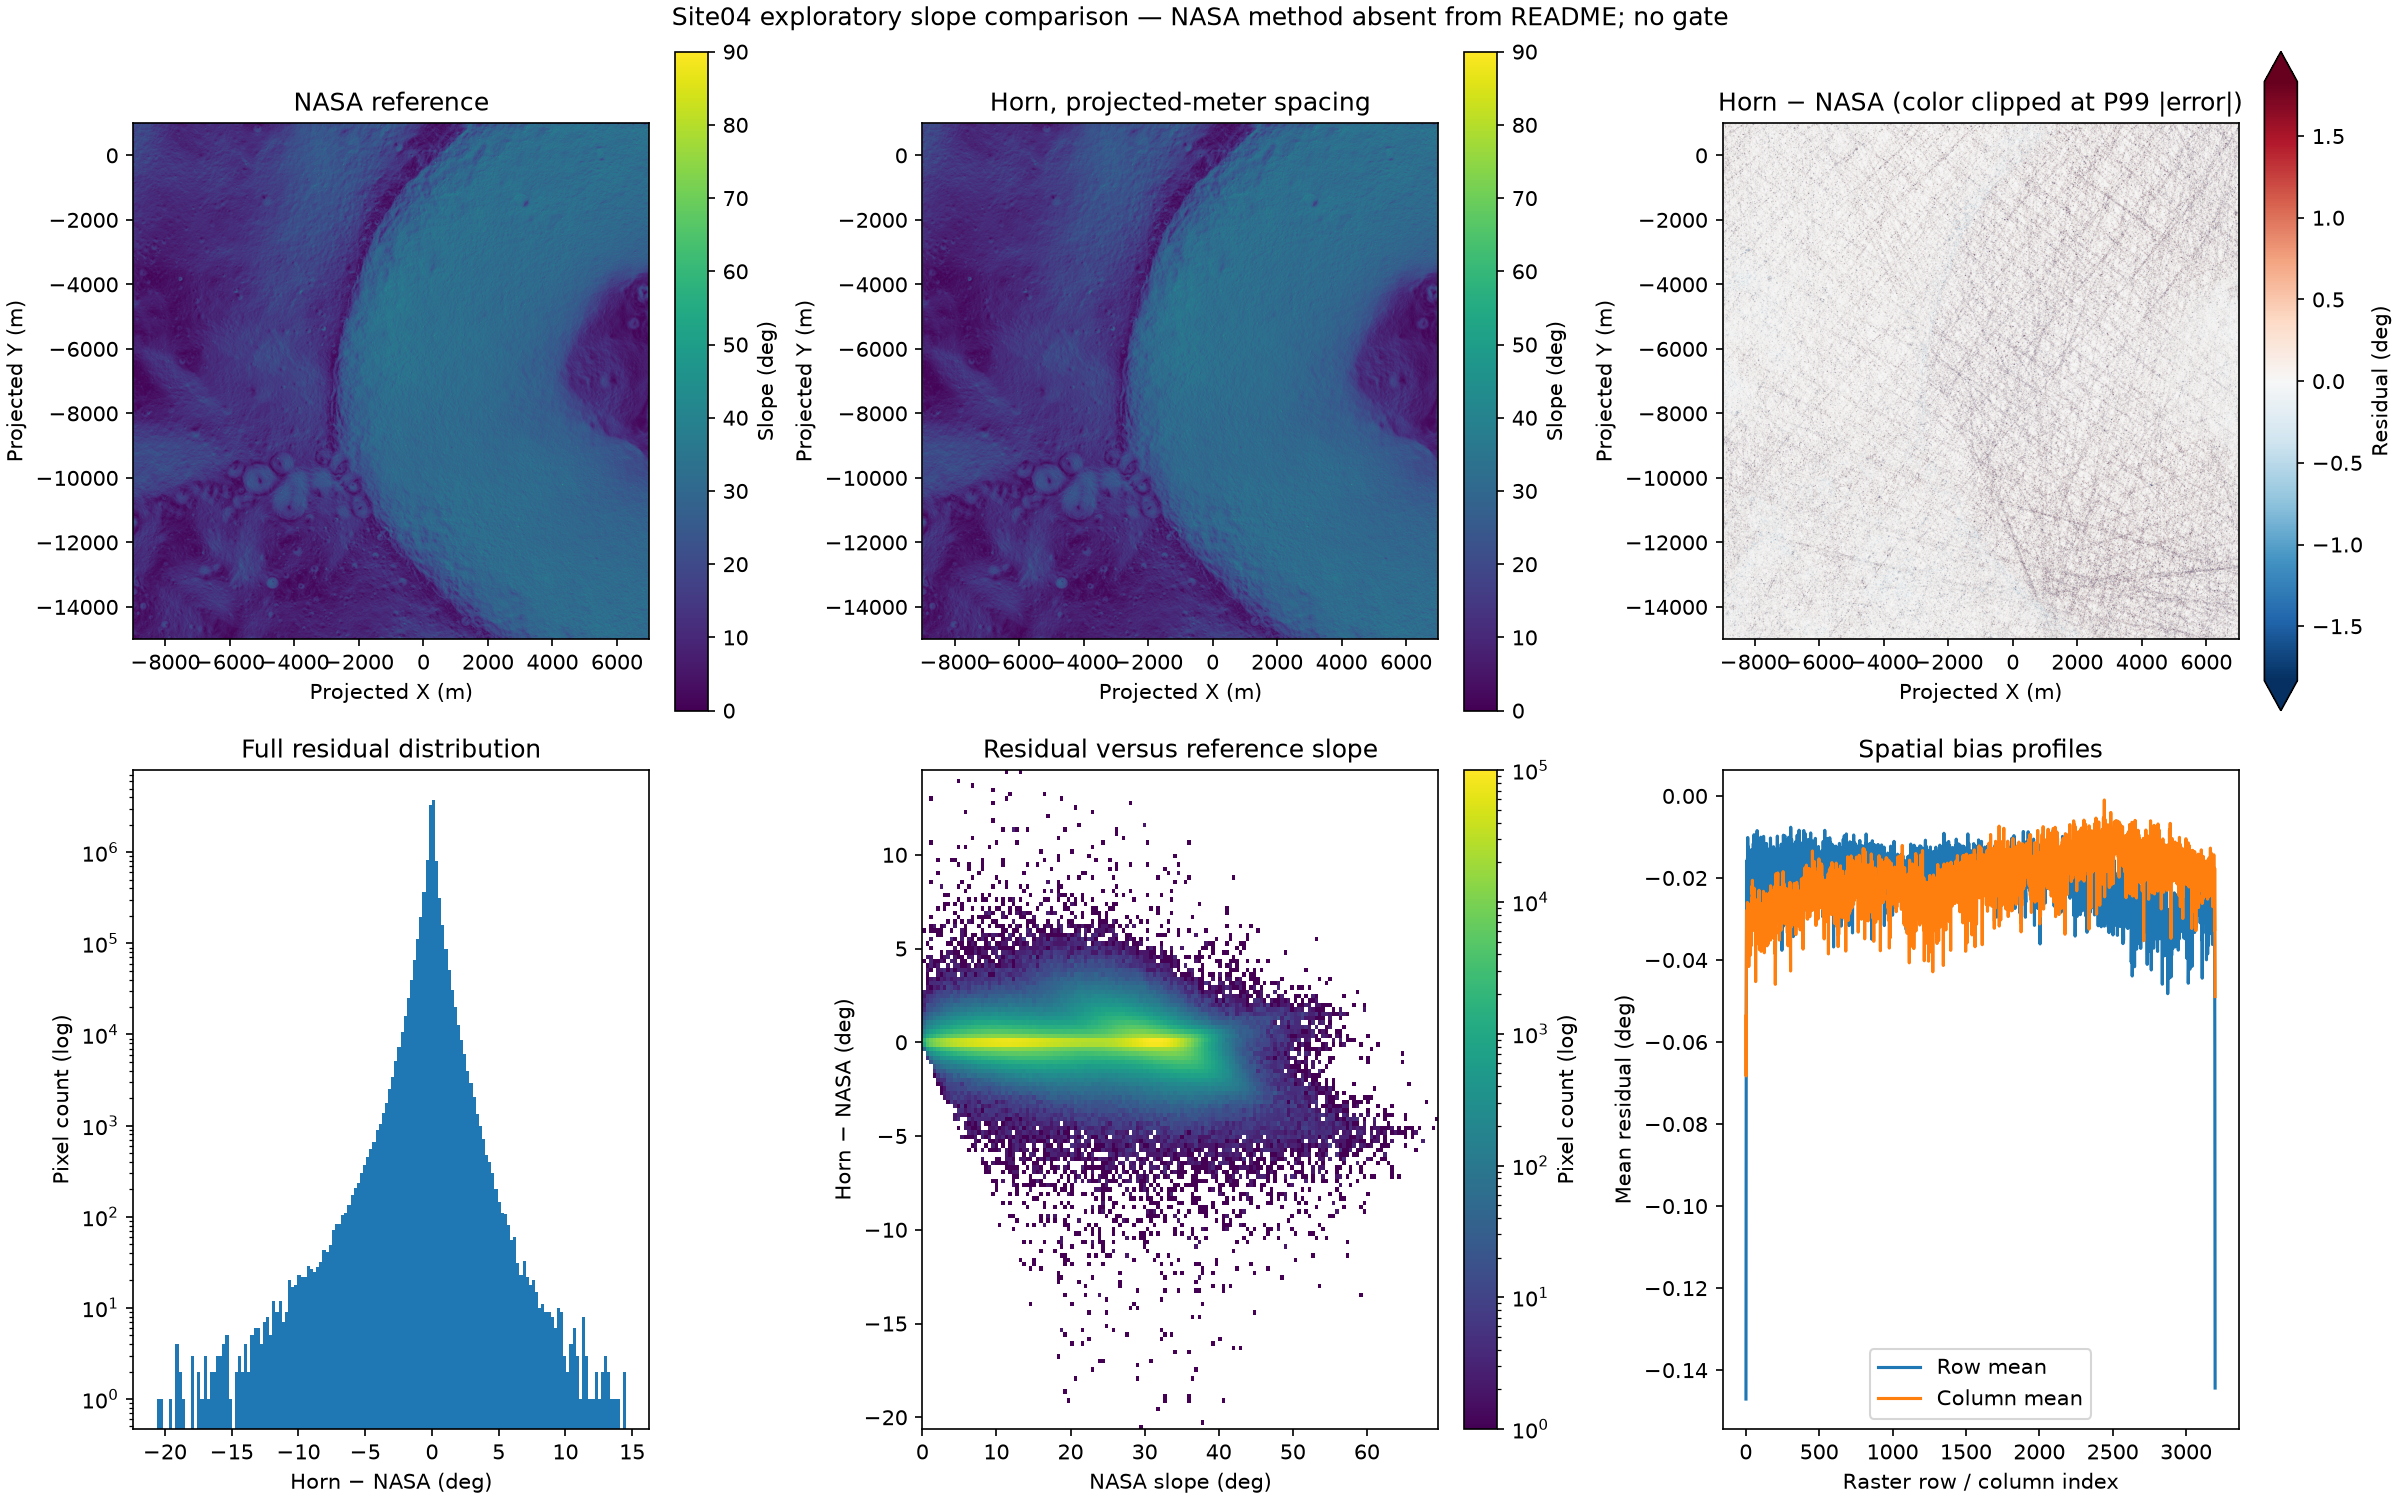
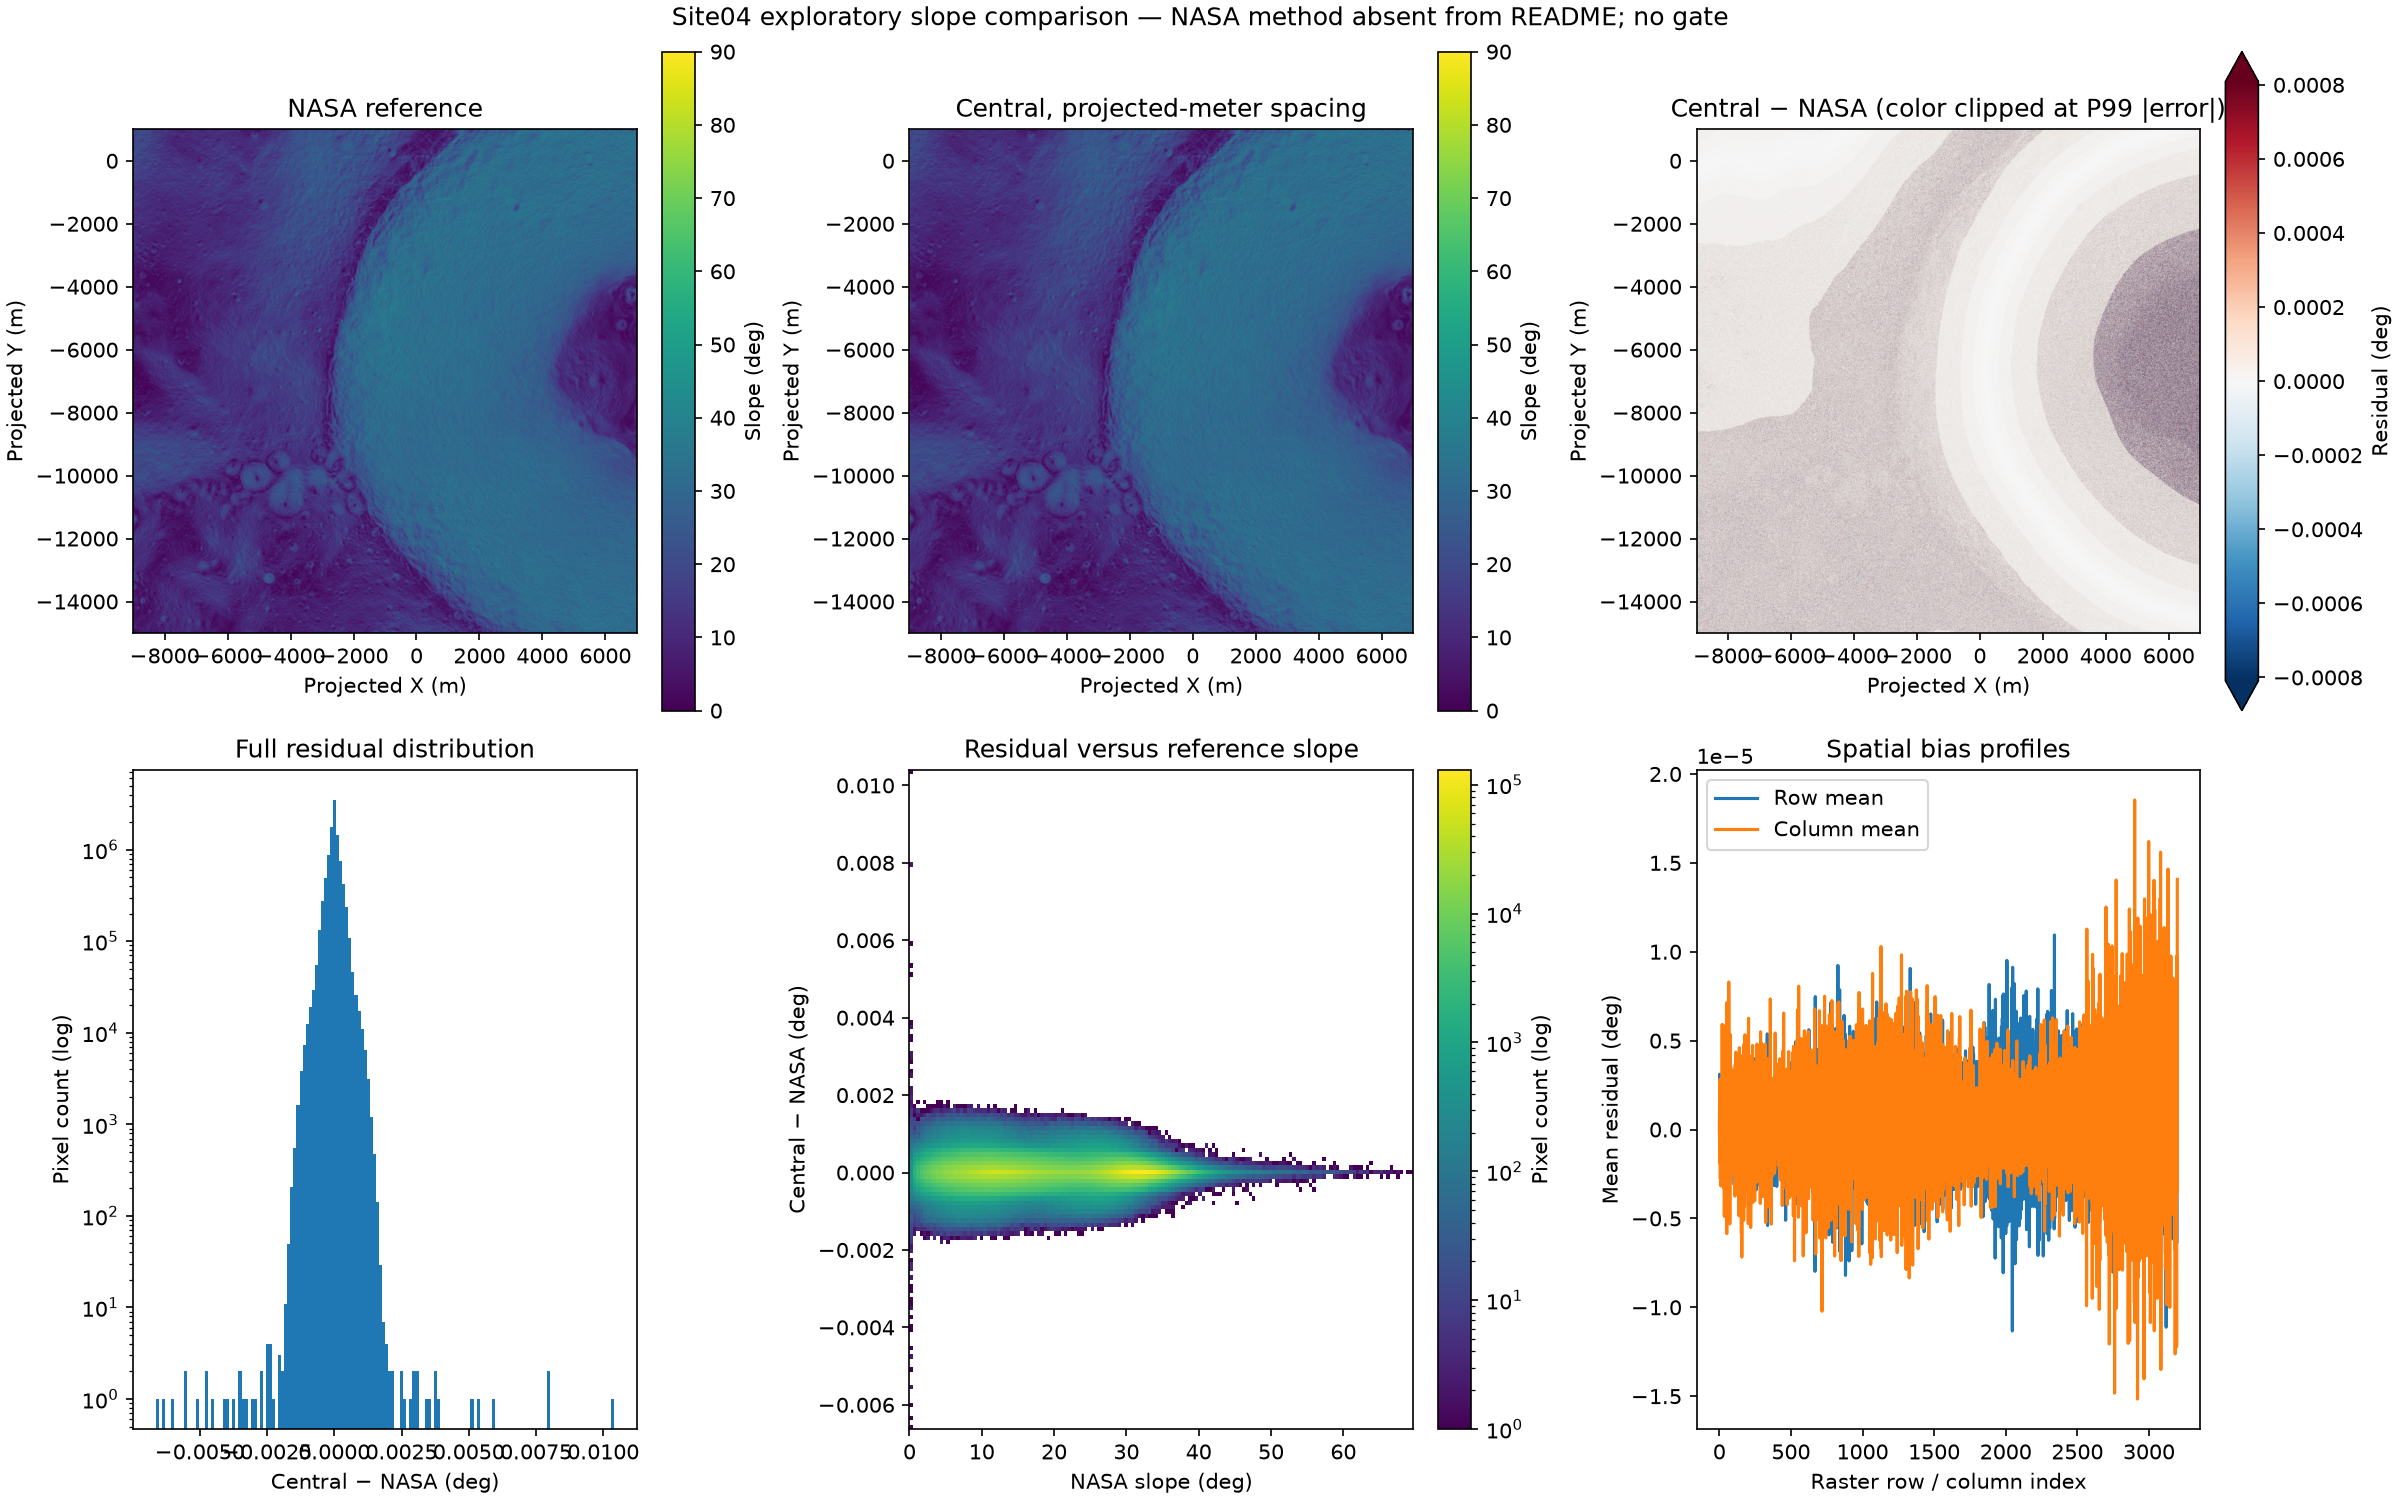
terrain: use central differences to match NASA's published slopes

diff --git a/scripts/validate_site04_slope.py b/scripts/validate_site04_slope.py
@@ -1,4 +1,4 @@
-"""Characterize Horn minus NASA Site04 slope; no numerical pass/fail gate.
+"""Characterize Central minus NASA Site04 slope; no numerical pass/fail gate.
 
 From the repository root: uv run python -m scripts.validate_site04_slope
 Print full-resolution statistics and write a diagnostic PNG, without resampling
@@ -58,10 +58,18 @@ def validate_site04(data_dir: Path, output_png: Path) -> None:
         raise ValueError("No comparable pixels")
     if np.any((reference_deg[valid_reference] < 0) | (reference_deg[valid_reference] > 90)):
         raise ValueError("Reference contains slope outside 0–90 degrees")
+    print("Estimator comparison on the same valid pixels (RMSE in degrees):")
+    for method in ("central", "horn", "forward"):
+        estimate_deg = compute_slope_deg(elevation_m, transform_m, method=method)
+        if not np.array_equal(np.isfinite(estimate_deg), valid_computed):
+            raise ValueError("Estimator validity masks differ")
+        comparison_deg = estimate_deg[valid] - reference_deg[valid]
+        print(f"  {method}: {np.sqrt(np.mean(comparison_deg**2)):.12f} deg")
+    del estimate_deg, comparison_deg
     residual_deg = np.where(valid, computed_deg - reference_deg, np.nan)
     differences_deg = residual_deg[valid]
     absolute_deg = np.abs(differences_deg)
-    print("Exploratory characterization: Horn minus NASA (degrees); NO PASS/FAIL GATE")
+    print("Exploratory characterization: Central minus NASA (degrees); NO PASS/FAIL GATE")
     print(f"Grid: {elevation_m.shape}; transform (meters): {tuple(transform_m)}")
     print(f"CRS: {crs.to_wkt()}")
     print(f"Total pixels: {valid.size:,}; compared: {valid.sum():,}")
@@ -118,7 +126,7 @@ def validate_site04(data_dir: Path, output_png: Path) -> None:
     # always use every eligible source pixel; common limits make maps comparable.
     for axis, values_deg, title in (
         (axes[0, 0], reference_deg, "NASA reference"),
-        (axes[0, 1], computed_deg, "Horn, projected-meter spacing"),
+        (axes[0, 1], computed_deg, "Central, projected-meter spacing"),
     ):
         artist = axis.imshow(values_deg, extent=extent_m, origin="upper", vmin=0, vmax=90)
         axis.set_title(title)
@@ -132,14 +140,16 @@ def validate_site04(data_dir: Path, output_png: Path) -> None:
         vmin=-display_limit_deg,
         vmax=display_limit_deg,
     )
-    axes[0, 2].set_title("Horn − NASA (color clipped at P99 |error|)")
+    axes[0, 2].set_title("Central − NASA (color clipped at P99 |error|)")
     figure.colorbar(artist, ax=axes[0, 2], label="Residual (deg)", extend="both")
     for axis in axes[0]:
         axis.set_xlabel("Projected X (m)")
         axis.set_ylabel("Projected Y (m)")
     axes[1, 0].hist(differences_deg, bins=150, log=True)
     axes[1, 0].set(
-        xlabel="Horn − NASA (deg)", ylabel="Pixel count (log)", title="Full residual distribution"
+        xlabel="Central − NASA (deg)",
+        ylabel="Pixel count (log)",
+        title="Full residual distribution",
     )
     histogram = axes[1, 1].hist2d(
         reference_deg[valid], differences_deg, bins=150, norm=matplotlib.colors.LogNorm()
@@ -147,7 +157,7 @@ def validate_site04(data_dir: Path, output_png: Path) -> None:
     figure.colorbar(histogram[3], ax=axes[1, 1], label="Pixel count (log)")
     axes[1, 1].set(
         xlabel="NASA slope (deg)",
-        ylabel="Horn − NASA (deg)",
+        ylabel="Central − NASA (deg)",
         title="Residual versus reference slope",
     )
     # Masked averages avoid interpreting missing rows/columns as zero bias.

diff --git a/core/terrain.py b/core/terrain.py
@@ -5,6 +5,7 @@ https://pgda.gsfc.nasa.gov/data/LOLA_5mpp/README
 """
 
 from pathlib import Path
+from typing import Literal
 
 import numpy as np
 import numpy.typing as npt
@@ -39,8 +40,17 @@ def load_dem_m(path: Path) -> tuple[npt.NDArray[np.float64], Affine, CRS]:
         return elevation_m, dataset.transform, dataset.crs
 
 
-def compute_slope_deg(elevation_m: npt.ArrayLike, transform_m: Affine) -> npt.NDArray[np.float64]:
-    """Return Horn slope in degrees using native projected-meter spacing.
+def compute_slope_deg(
+    elevation_m: npt.ArrayLike,
+    transform_m: Affine,
+    *,
+    method: Literal["central", "horn", "forward"] = "central",
+) -> npt.NDArray[np.float64]:
+    """Return slope in degrees using native projected-meter spacing.
+
+    Default: Zevenbergen–Thorne unweighted central differences, selected by
+    empirical Site04 agreement (see DECISIONS.md). Optional horn and forward
+    methods retain the comparison estimators. All use the same validity mask.
 
     Horn (1981), Hill Shading and the Reflectance Map, Proc. IEEE 69, 14–47,
     doi:10.1109/PROC.1981.11918. This is an exploratory estimator, not a verified
@@ -48,6 +58,8 @@ def compute_slope_deg(elevation_m: npt.ArrayLike, transform_m: Affine) -> npt.ND
     Requires an axis-aligned raster at least 3x3; borders and any neighborhood
     containing invalid elevation are NaN. No padding or gap filling is applied.
     """
+    if method not in ("central", "horn", "forward"):
+        raise ValueError(f"Unknown slope method: {method}")
     values_m = np.ma.asarray(elevation_m, dtype=np.float64).filled(np.nan)
     if values_m.ndim != 2 or min(values_m.shape) < 3:
         raise ValueError("Elevation must be a 2D array with at least 3 rows and columns")
@@ -61,12 +73,23 @@ def compute_slope_deg(elevation_m: npt.ArrayLike, transform_m: Affine) -> npt.ND
     # a b c / d e f / g h i are elevations in a 3x3 raster window.
     # X increases with column for Site04; Y decreases with row. Signed affine
     # spacings preserve that direction: e is -5 m for Site04, not +5 m.
-    # Weighted differences divide by 8 (= 2-pixel baseline * weights 1+2+1).
     a_m, b_m, c_m = values_m[:-2, :-2], values_m[:-2, 1:-1], values_m[:-2, 2:]
     d_m, f_m = values_m[1:-1, :-2], values_m[1:-1, 2:]
     g_m, h_m, i_m = values_m[2:, :-2], values_m[2:, 1:-1], values_m[2:, 2:]
-    gradient_x = ((c_m - a_m) + 2 * (f_m - d_m) + (i_m - g_m)) / (8 * transform_m.a)
-    gradient_y = ((g_m - a_m) + 2 * (h_m - b_m) + (i_m - c_m)) / (8 * transform_m.e)
+    if method == "central":
+        # Opposite neighbors span two pixels; no diagonal weighting.
+        gradient_x = (f_m - d_m) / (2 * transform_m.a)
+        gradient_y = (h_m - b_m) / (2 * transform_m.e)
+    elif method == "horn":
+        # 8 = two-pixel baseline times the transverse weights (1+2+1).
+        gradient_x = ((c_m - a_m) + 2 * (f_m - d_m) + (i_m - g_m)) / (8 * transform_m.a)
+        gradient_y = ((g_m - a_m) + 2 * (h_m - b_m) + (i_m - c_m)) / (8 * transform_m.e)
+    else:
+        # Forward means increasing row/column, with one-pixel baselines.
+        # Assign both adjacent gradients to the center without a grid shift.
+        center_m = values_m[1:-1, 1:-1]
+        gradient_x = (f_m - center_m) / transform_m.a
+        gradient_y = (h_m - center_m) / transform_m.e
 
     valid = np.ones(gradient_x.shape, dtype=bool)
     for row_offset in range(3):

diff --git a/tests/test_terrain.py b/tests/test_terrain.py
@@ -54,19 +54,20 @@ def test_horn_real_neighborhood_hand_checked(dem, row, column, expected_deg):
     # (500,500): 3.979705810546875,4.362579345703125 m ->
     #           0.099492645263671875,-0.109064483642578125.
     # Each expected angle is atan(sqrt(gx*gx + gy*gy)) * 180/pi.
-    result_deg = compute_slope_deg(neighborhood_m, transform_m)
+    result_deg = compute_slope_deg(neighborhood_m, transform_m, method="horn")
     assert result_deg[1, 1] == pytest.approx(expected_deg, abs=1e-12)
     assert np.count_nonzero(np.isfinite(result_deg)) == 1
 
 
+@pytest.mark.parametrize("method", ["central", "horn", "forward"])
 @pytest.mark.parametrize("row_offset,column_offset", [(r, c) for r in range(3) for c in range(3)])
-def test_invalid_neighbor_excludes_center(dem, row_offset, column_offset):
+def test_invalid_neighbor_excludes_center(dem, row_offset, column_offset, method):
     elevation_m, transform_m, _ = dem
     # Mask observations in a real neighborhood to test missing-data handling;
     # do not generate or replace any terrain heights.
     neighborhood_m = np.ma.array(elevation_m[999:1002, 999:1002], mask=False)
     neighborhood_m.mask[row_offset, column_offset] = True
-    assert np.isnan(compute_slope_deg(neighborhood_m, transform_m)).all()
+    assert np.isnan(compute_slope_deg(neighborhood_m, transform_m, method=method)).all()
 
 
 def test_unsupported_grid_stops(dem):
@@ -78,3 +79,26 @@ def test_unsupported_grid_stops(dem):
         compute_slope_deg(patch_m, Affine(0, 0, 0, 0, -5, 0))
     with pytest.raises(ValueError, match="at least 3"):
         compute_slope_deg(patch_m[:2], transform_m)
+
+
+@pytest.mark.parametrize(
+    "method,expected_deg",
+    [("central", 17.646201418369948), ("forward", 17.882469994042452)],
+)
+def test_unweighted_real_neighborhood_hand_checked(dem, method, expected_deg):
+    elevation_m, transform_m, _ = dem
+    # Actual (1000,1000) neighborhood: central X,Y differences are
+    # 1.95751953125, 2.5074462890625 m, over +10,-10 m respectively.
+    # Forward differences are 0.946044921875,1.3067626953125 m over +5,-5 m.
+    # Expected degrees = atan(sqrt(gx*gx + gy*gy)) * 180/pi.
+    result_deg = compute_slope_deg(elevation_m[999:1002, 999:1002], transform_m, method=method)
+    assert result_deg[1, 1] == pytest.approx(expected_deg, abs=1e-12)
+    assert np.count_nonzero(np.isfinite(result_deg)) == 1
+
+
+def test_production_default_is_central(dem):
+    elevation_m, transform_m, _ = dem
+    result_deg = compute_slope_deg(elevation_m[999:1002, 999:1002], transform_m)
+    assert result_deg[1, 1] == pytest.approx(17.646201418369948, abs=1e-12)
+    with pytest.raises(ValueError, match="Unknown slope method"):
+        compute_slope_deg(elevation_m[999:1002, 999:1002], transform_m, method="unknown")
